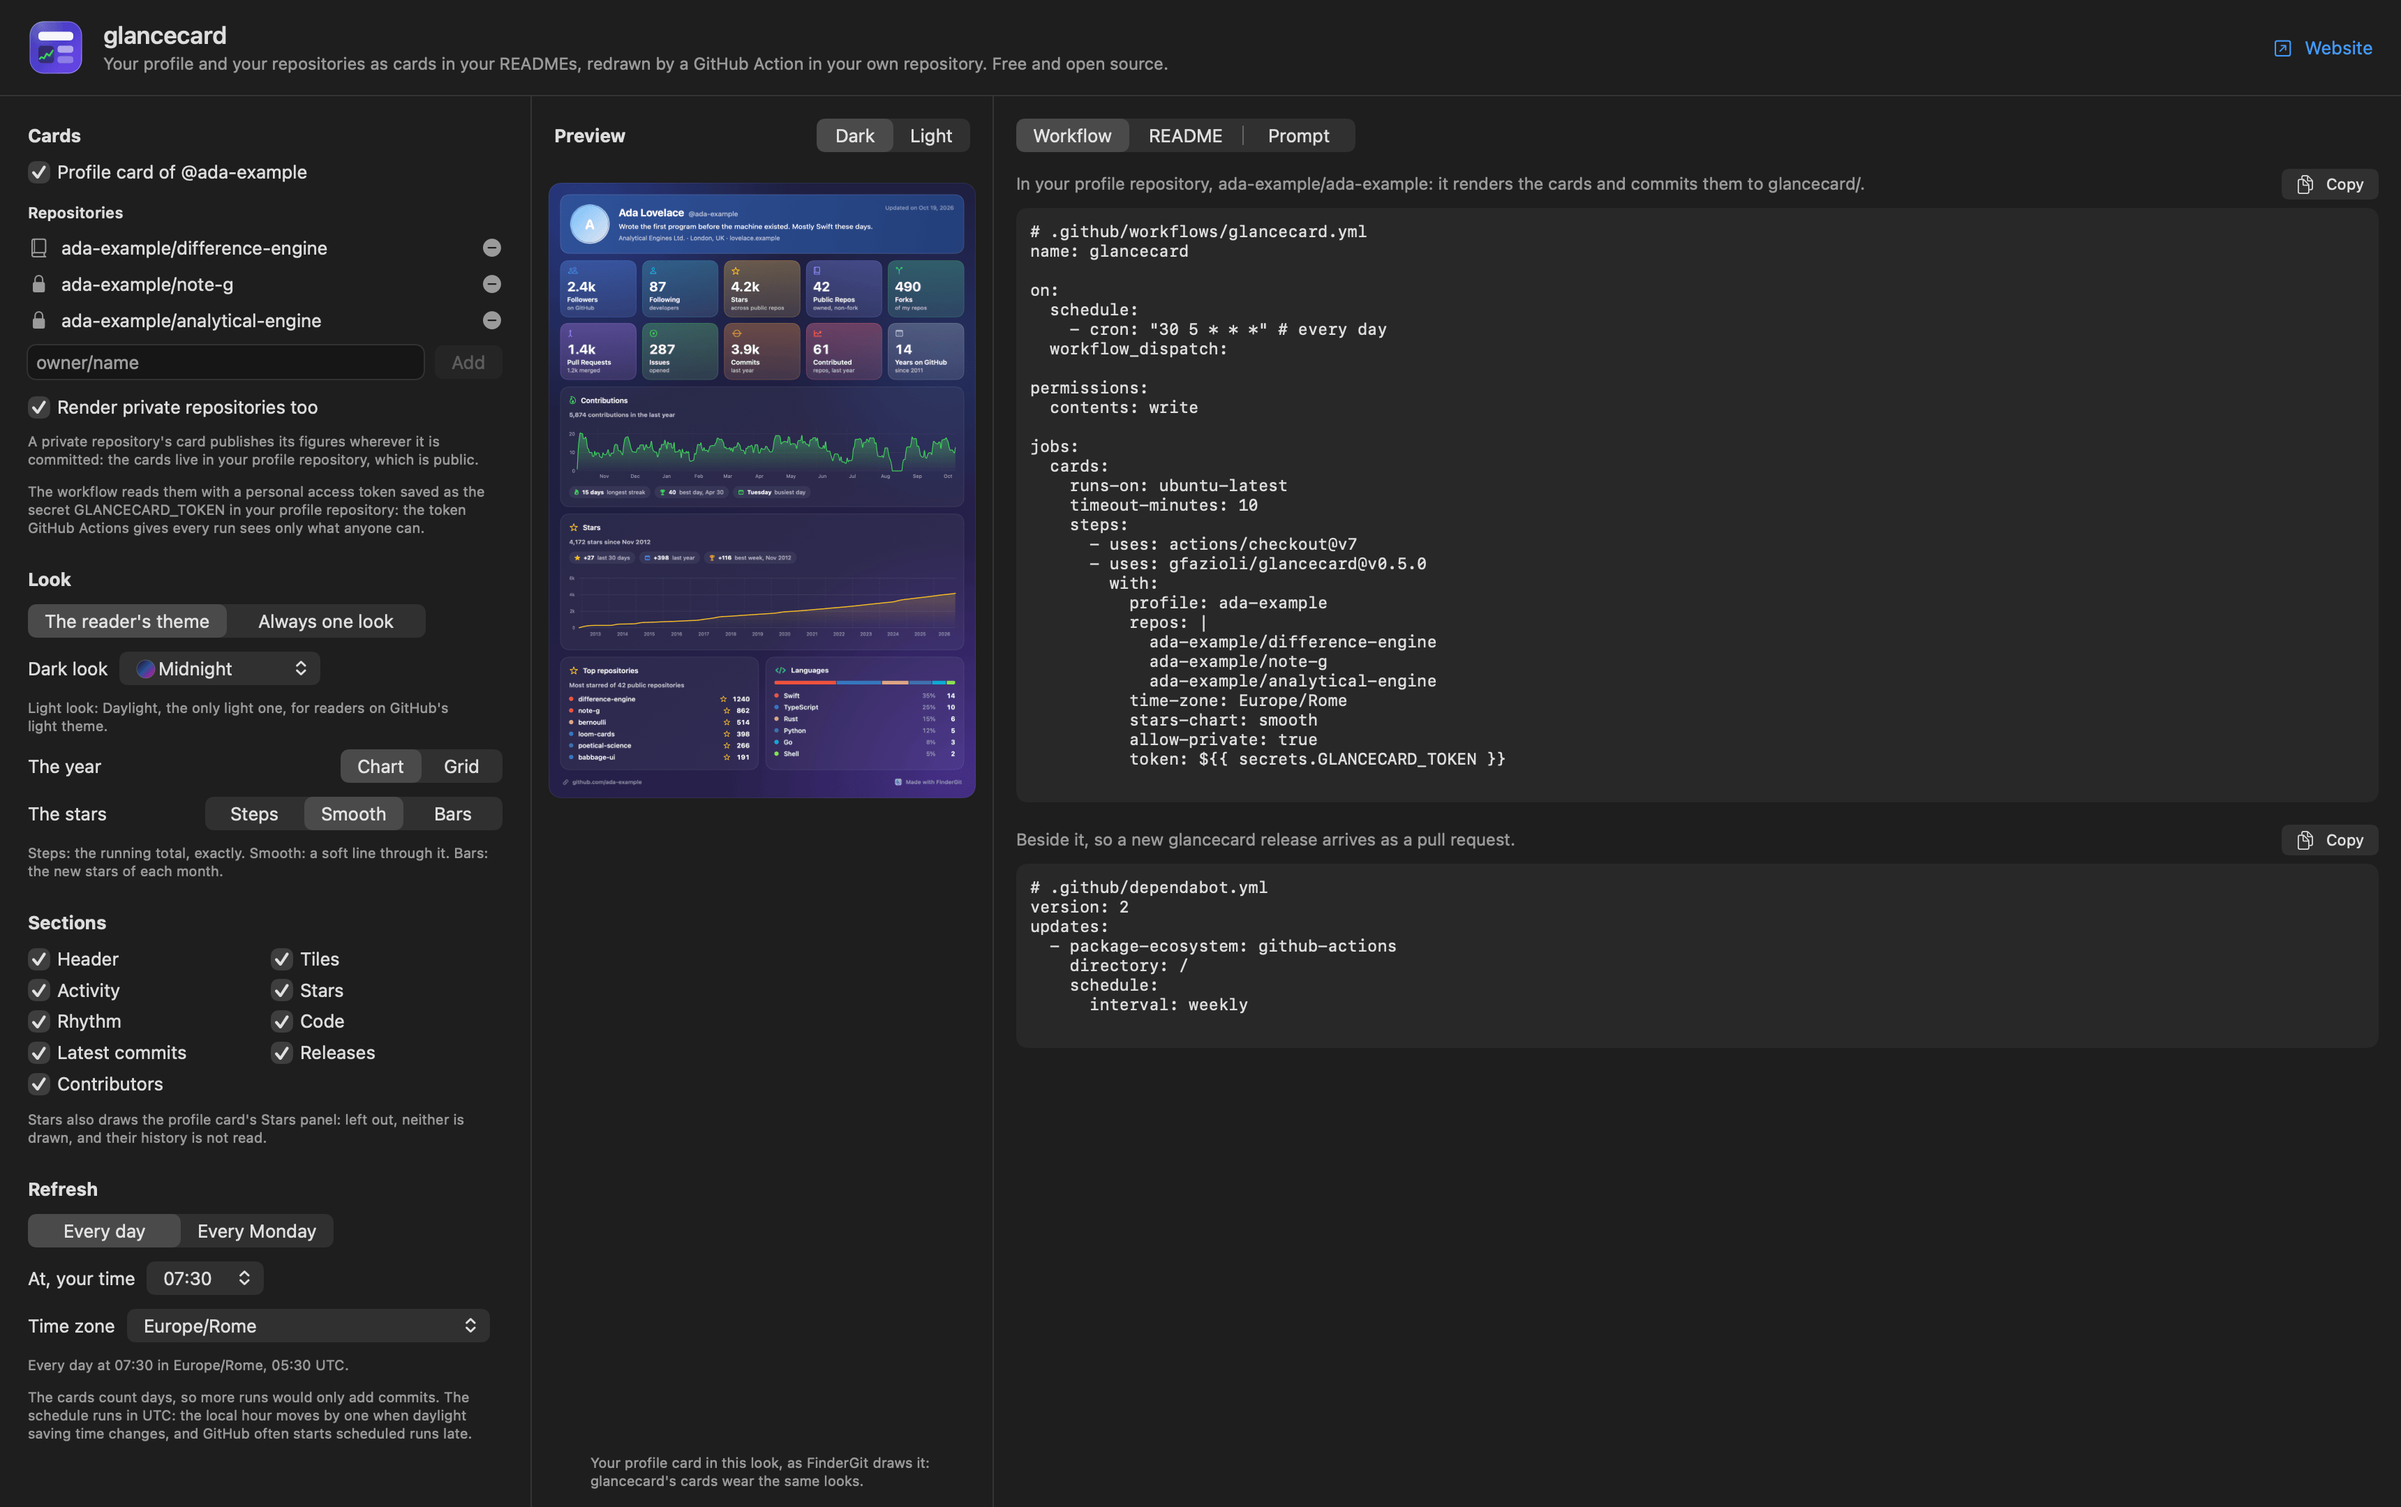
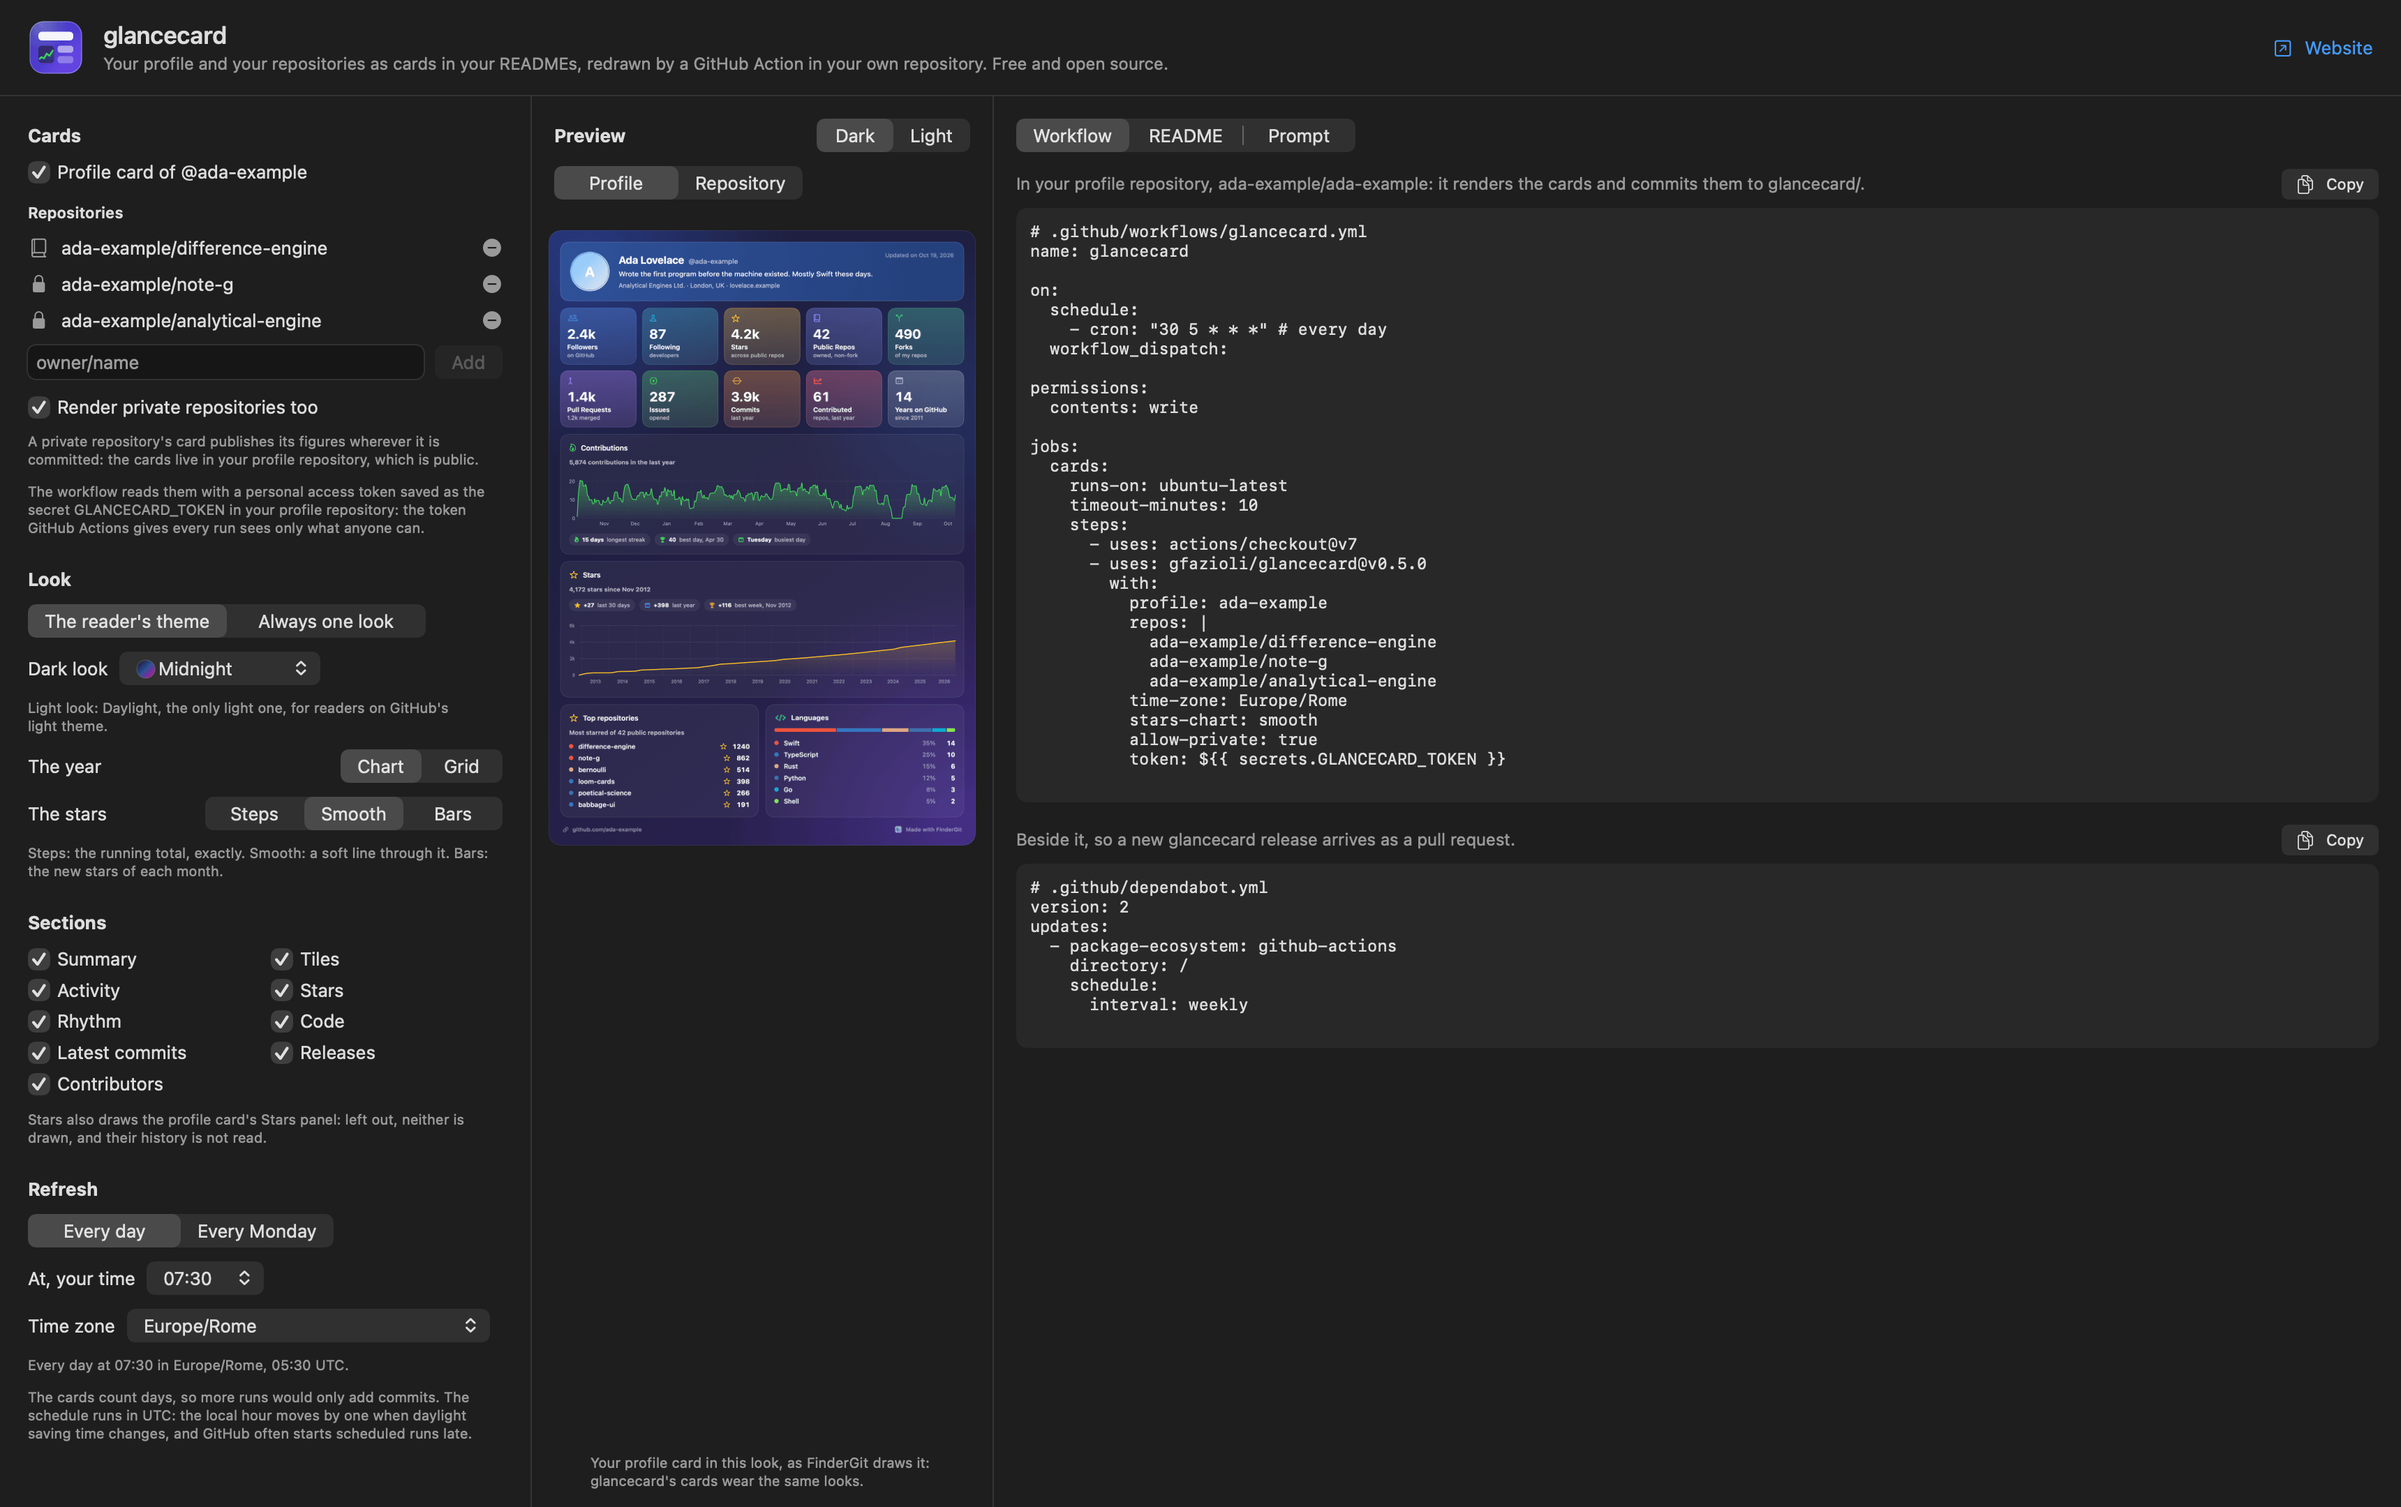
feat(sparkle): publish FinderGit v0.53.1 to appcast

Changed region(s): [[0.2177, 0.0931, 0.4044, 0.4032], [0.2177, 0.3722, 0.4044, 0.5583], [0.0311, 0.6204, 0.0622, 0.6514]]

diff --git a/public/release-notes/0.53.1.html b/public/release-notes/0.53.1.html
@@ -1,0 +1,110 @@
+<!DOCTYPE html>
+<html lang="en">
+<head>
+<meta charset="utf-8">
+<meta name="viewport" content="width=device-width, initial-scale=1">
+<title>FinderGit 0.53.1 — Release Notes</title>
+<style>
+  :root {
+    color-scheme: light dark;
+    --bg: #ffffff;
+    --fg: #1a1a1a;
+    --accent: #007aff;
+    --muted: #6b6b73;
+    --code-bg: #f4f4f5;
+    --border: rgba(0,0,0,0.12);
+  }
+  @media (prefers-color-scheme: dark) {
+    :root {
+      --bg: #1c1c1e;
+      --fg: #ececec;
+      --muted: #9c9ca5;
+      --code-bg: #2c2c2e;
+      --border: rgba(255,255,255,0.14);
+    }
+  }
+  * { box-sizing: border-box; }
+  body {
+    font: 14px/1.55 -apple-system, BlinkMacSystemFont, "SF Pro Text", "Helvetica Neue", sans-serif;
+    color: var(--fg);
+    background: var(--bg);
+    margin: 0 auto;
+    padding: 20px 24px 40px;
+    max-width: 720px;
+  }
+  header.page-header {
+    border-bottom: 1px solid var(--border);
+    padding-bottom: 14px;
+    margin-bottom: 22px;
+  }
+  header.page-header h1 { font-size: 1.7em; margin: 0 0 4px; letter-spacing: -0.02em; }
+  header.page-header .subtitle { color: var(--muted); margin: 0; font-size: 0.92em; }
+  h1, h2, h3, h4 { letter-spacing: -0.01em; margin: 1.5em 0 0.5em; }
+  h1 { font-size: 1.4em; }
+  h2 { font-size: 1.2em; }
+  h3 { font-size: 1em; }
+  a { color: var(--accent); }
+  hr { border: 0; border-top: 1px solid var(--border); margin: 22px 0; }
+  ul, ol { padding-left: 1.4em; }
+  li { margin: 4px 0; }
+  code {
+    font: 0.9em ui-monospace, "SF Mono", Menlo, Consolas, monospace;
+    background: var(--code-bg);
+    padding: 1px 5px;
+    border-radius: 3px;
+  }
+  pre {
+    background: var(--code-bg);
+    padding: 12px 14px;
+    border-radius: 6px;
+    overflow-x: auto;
+    font-size: 0.88em;
+  }
+  pre code { background: transparent; padding: 0; font-size: 1em; }
+  blockquote {
+    margin: 12px 0;
+    padding-left: 12px;
+    border-left: 3px solid var(--border);
+    color: var(--muted);
+  }
+  table { border-collapse: collapse; width: 100%; margin: 12px 0; font-size: 0.95em; }
+  th, td { border: 1px solid var(--border); padding: 6px 10px; text-align: left; }
+  th { background: var(--code-bg); }
+  img { max-width: 100%; }
+</style>
+</head>
+<body>
+<header class="page-header">
+  <h1>FinderGit 0.53.1</h1>
+  <p class="subtitle">Release notes</p>
+</header>
+<p>FinderGit 0.53.1 — Sections you can see, and Agents finds more</p>
+<h2>Highlights</h2>
+<ul>
+<li><strong>See what each section does.</strong> In the glancecard window the preview now draws a repository card too: pick <strong>Repository</strong> above it, or tick a section, and a sketch shows each section where glancecard puts it — Rhythm beside Code, Latest commits beside Releases, and the one left taking the full width when its neighbour goes. The first section is now called <strong>Summary</strong>: it is the panel under the card's title, not the header, which every card keeps.</li>
+<li><strong>A place's findings in one go.</strong> On Agents, a place's row in Launch Weight shows its warnings and suggestions while closed and, opened, hands every one of them to Claude Code or Codex in one session, writing only where that place's own files are.</li>
+<li><strong>Found where Claude Code looks.</strong> Skills are listed the way Claude Code lists them, so a large folder inside one skill can no longer hide the skills after it, and a skill one folder too deep shows as Ignored, with a suggestion. Each place's memory is found where Claude Code keeps it: a linked worktree reads its main checkout's, and a memory folder moved in the settings is followed.</li>
+</ul>
+<h2>Bug fixes</h2>
+<ul>
+<li>The workflow and the README lines in the glancecard window keep each line whole and scroll sideways: a long list of sections wrapped to the left margin and looked like broken YAML. What you copied was always right.</li>
+<li>With no repository listed, the sections only a repository card draws are set aside, and the workflow no longer writes a sections line that changes nothing. Stars stays a choice, the one section the profile card draws.</li>
+<li>Cards stay still as they open and close: their figures no longer count up from zero again, an open card no longer jumps on a refresh, and resizing the window keeps an open panel's figures at rest.</li>
+</ul>
+<h2>Under the hood</h2>
+<ul>
+<li>The repository sketch follows glancecard's own layout (its renderer's order, pairs and section heights) in the look picked, with shapes in place of the figures: the app draws no repository card of its own. It wears the Profile Card's frame and panels, and its two grids are drawn as one canvas each.</li>
+<li>Which sections a setup can draw is one rule in the app's core, read by both the workflow and the checkboxes.</li>
+<li>The Agents page comes from AgentsKit 0.9.4 → 0.9.9, shared with Lancetta.</li>
+<li>Translated into Italian, French, German and Spanish.</li>
+</ul>
+<h2>Install</h2>
+<ol>
+<li>Download <code class="notranslate">FinderGit-0.53.1.dmg</code></li>
+<li>Open the DMG and drag FinderGit into Applications</li>
+<li>Launch normally — the app is signed with an Apple Developer ID and notarized by Apple</li>
+</ol>
+<h2>Requirements</h2>
+<p>macOS 15 or later. Universal binary (Apple Silicon and Intel).</p>
+</body>
+</html>

diff --git a/config/index.ts b/config/index.ts
@@ -98,7 +98,7 @@ export default {
     defaultLanguage: 'en',
   },
   app: {
-    version: '0.53.0',
+    version: '0.53.1',
     // Publication date of `version`, UTC, written by release.sh next to the
     // version itself. It is the OFFLINE FALLBACK for the homepage release
     // strip: the live date and the release count come from the GitHub
